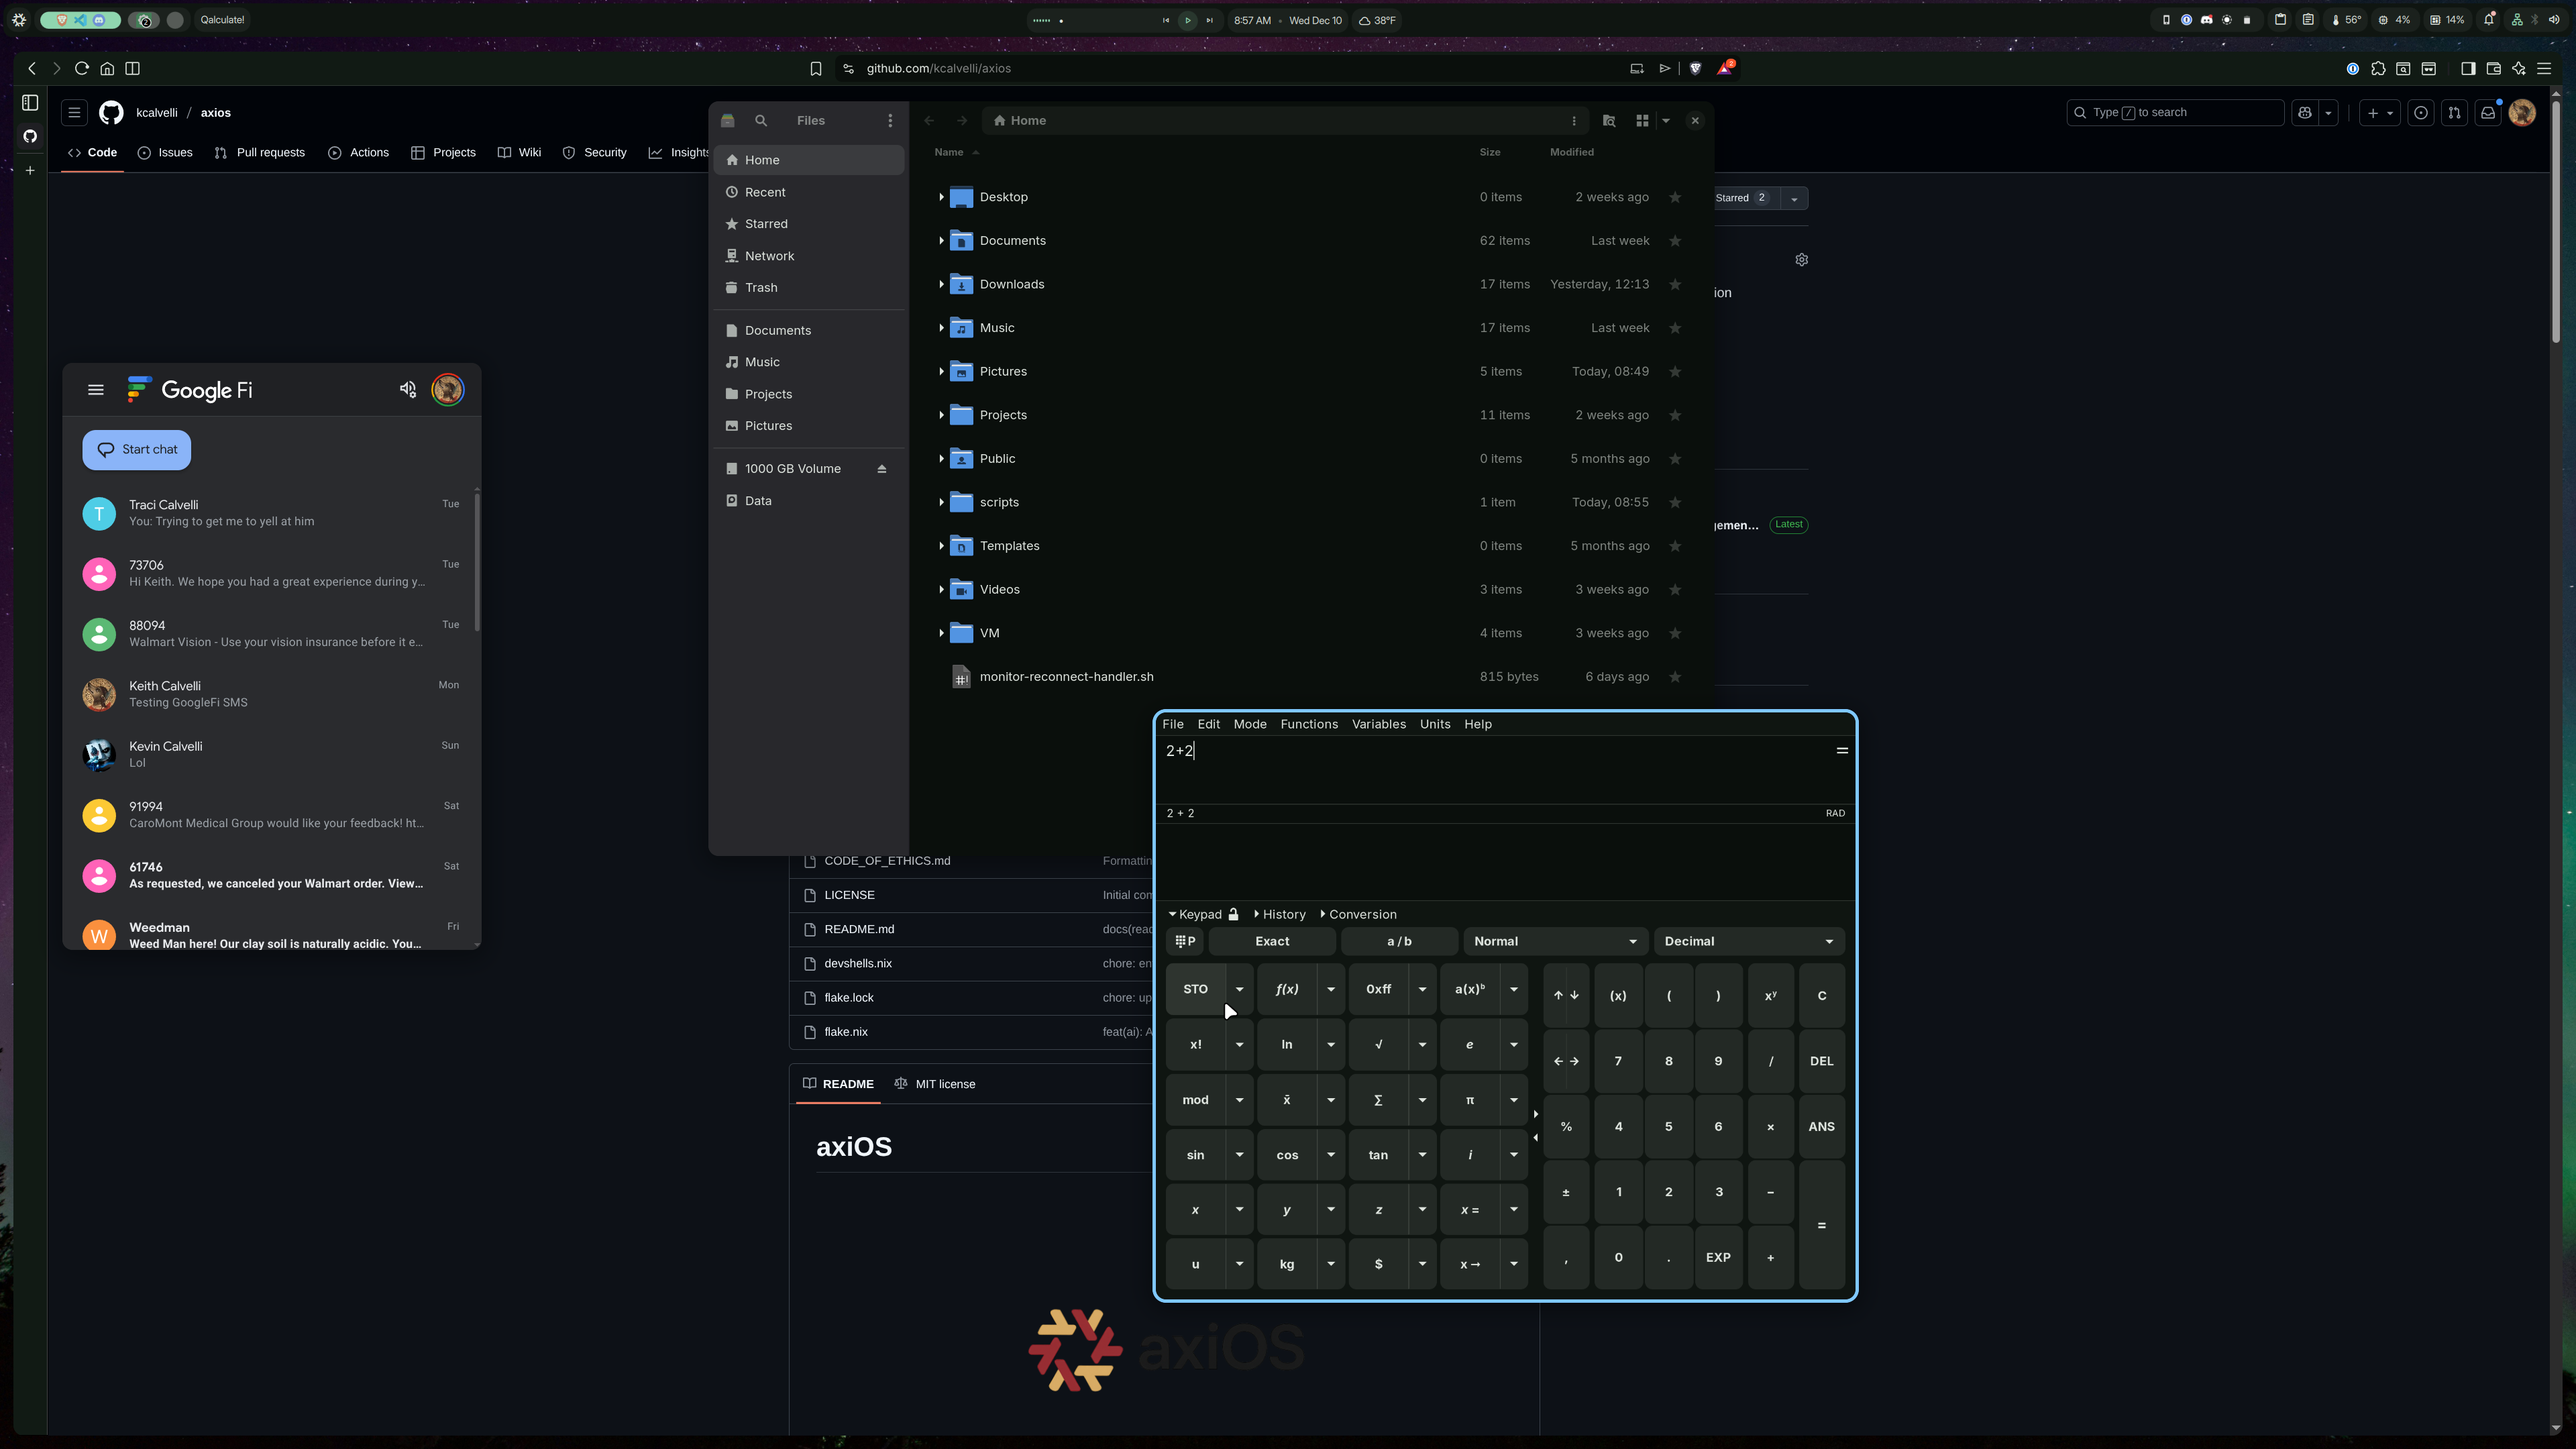
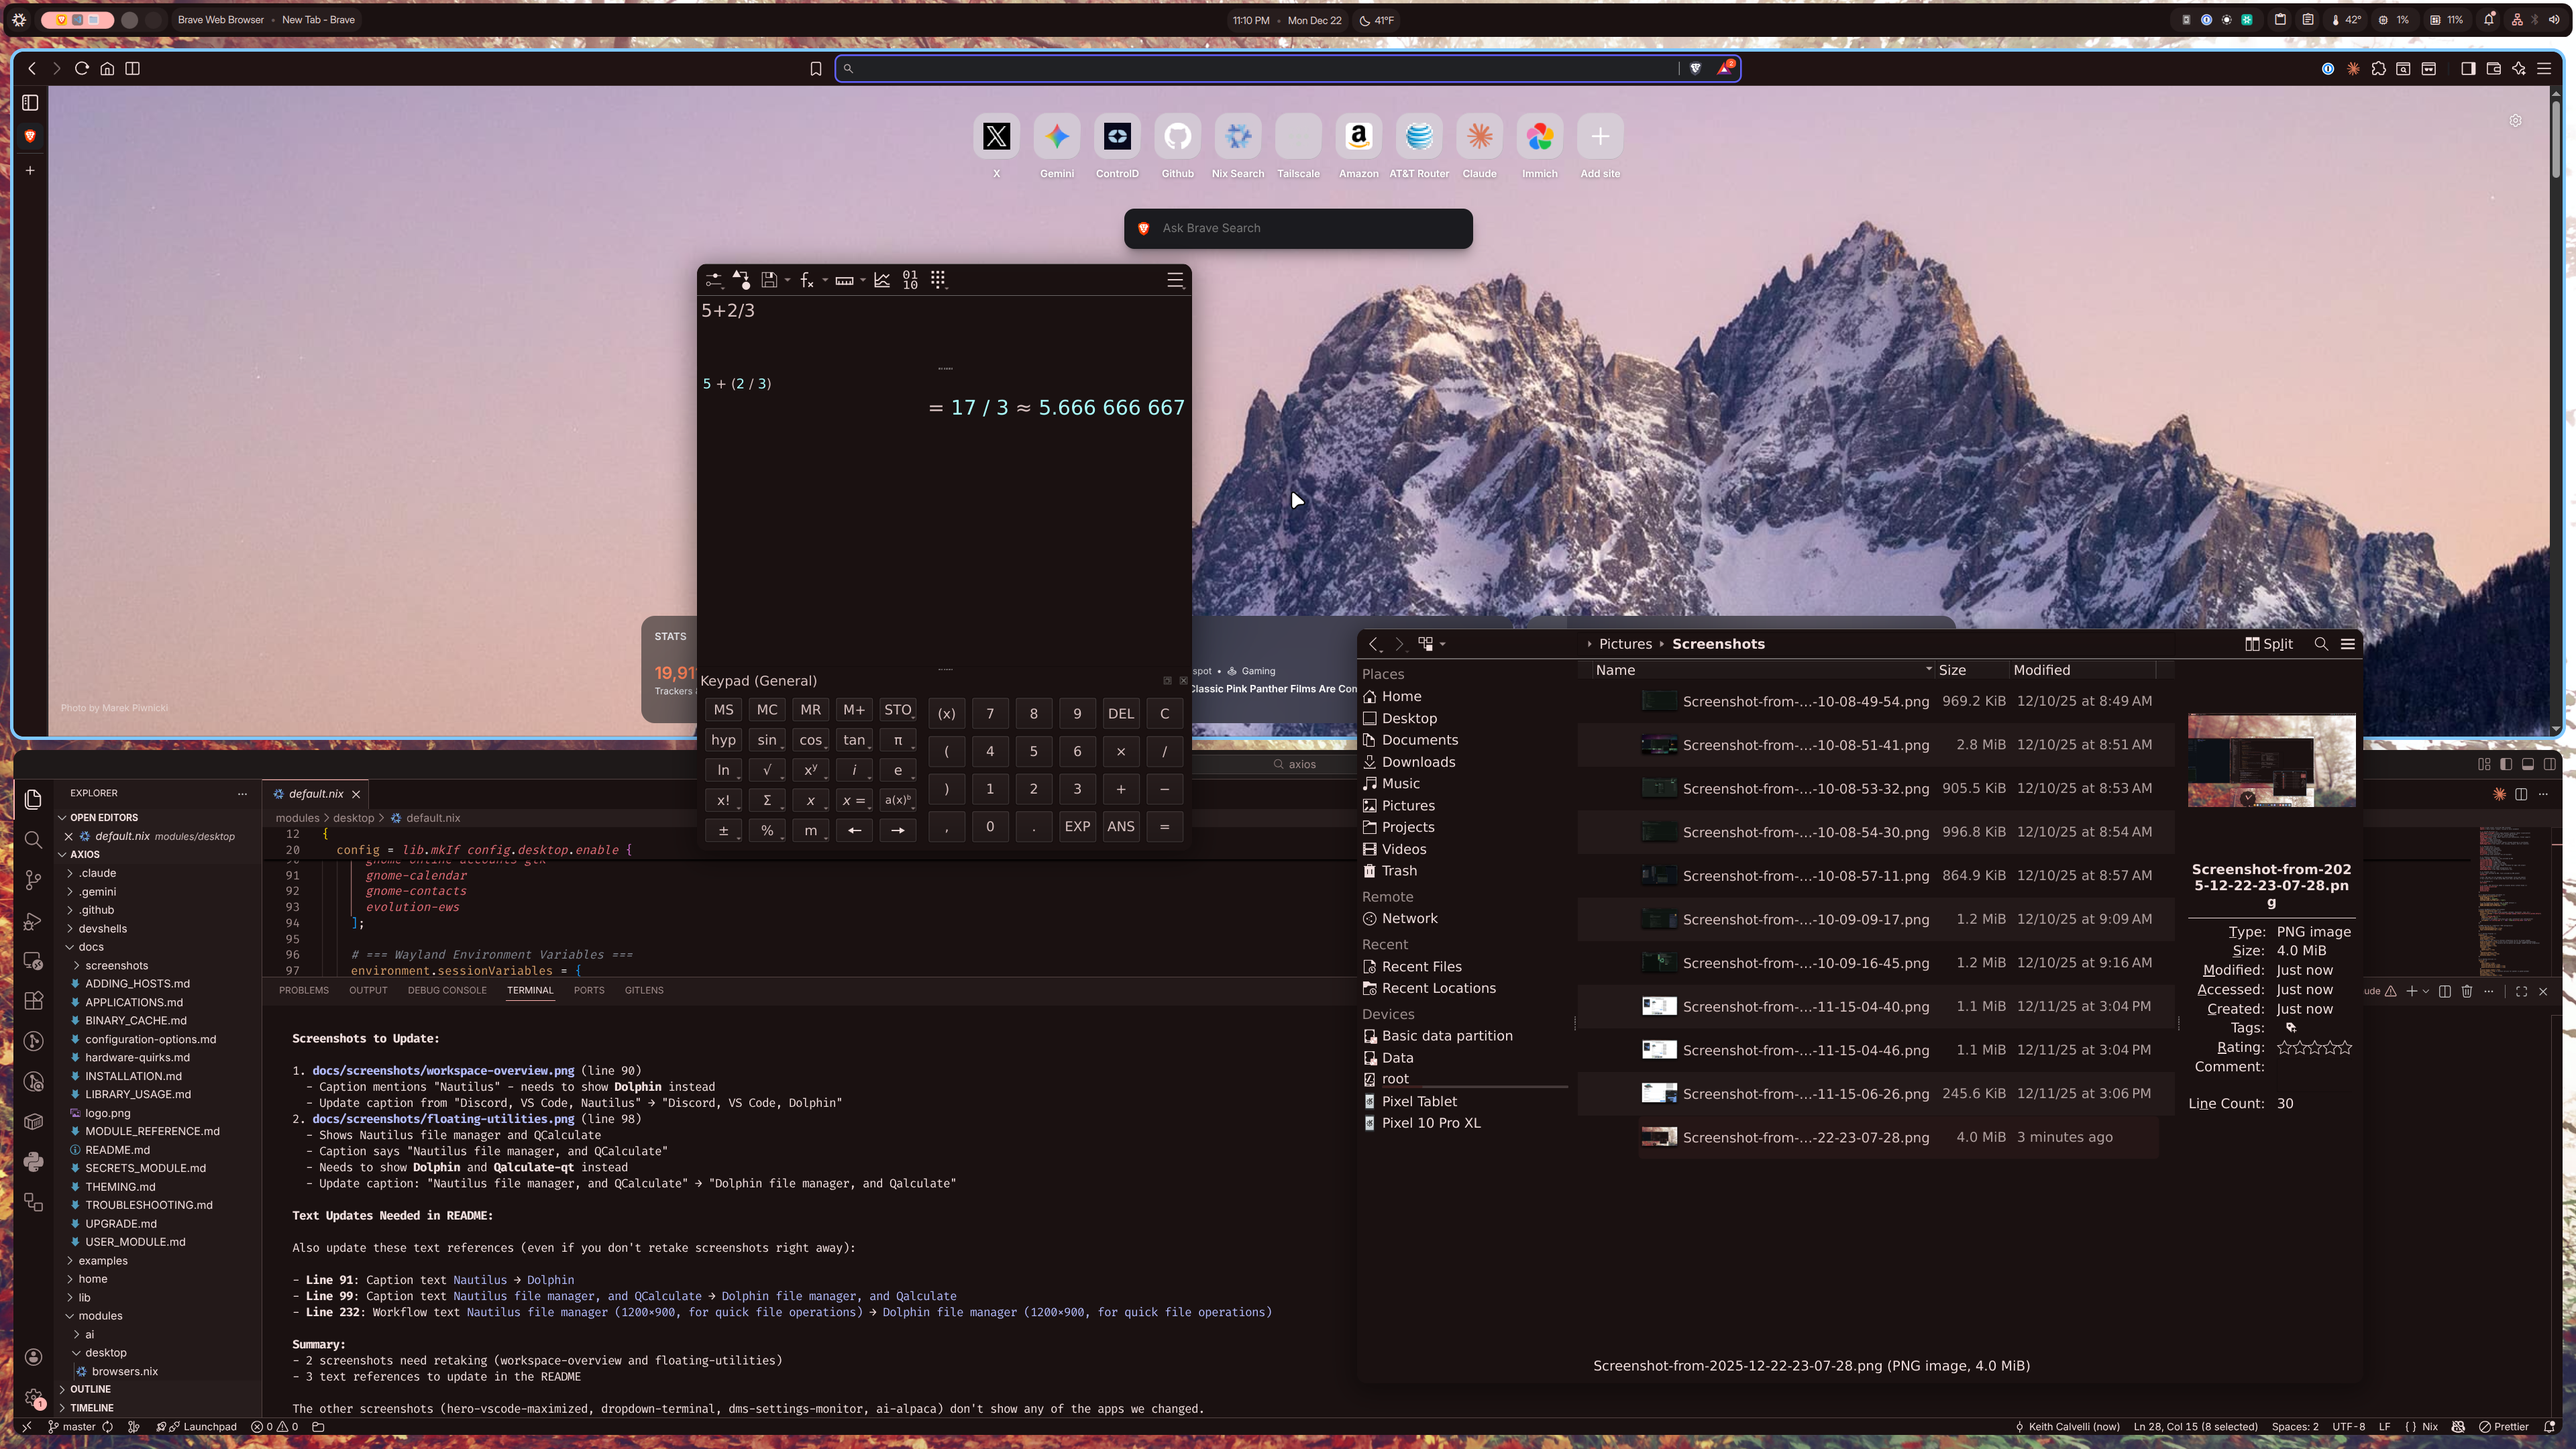
docs: Update screenshots and text for app migration
Updated README screenshots and all text references to reflect the
migration from Nautilus to Dolphin and QCalculate to Qalculate.

Screenshot Changes:
- workspace-overview.png: New screenshot showing Dolphin, VS Code,
  terminals, and the Niri keybinding reference overlay
- floating-utilities.png: New screenshot showing Qalculate calculator,
  Dolphin file manager, and split-screen Brave/VS Code tiling

Text Updates:
- Updated all references: Nautilus → Dolphin
- Updated all references: QCalculate → Qalculate
- Updated captions to accurately describe new screenshots
- Updated workflow section to reference updated apps

All screenshots now show the current best-in-class application suite.

🤖 Generated with [Claude Code](https://claude.com/claude-code)

diff --git a/README.md b/README.md
@@ -88,7 +88,7 @@ For manual setup, you'll create just 3 files:
 
 ### Workspace Overview with Blur Effect
 ![Workspace Overview](docs/screenshots/workspace-overview.png)
-*Niri's scrollable workspace view showing multiple contexts (Discord, VS Code, Nautilus) with automatic wallpaper blur*
+*Niri's scrollable workspace view showing multiple contexts (VS Code, Dolphin, terminals) with automatic wallpaper blur and built-in keybinding reference*
 
 ### Dropdown Terminal (Super+`)
 ![Dropdown Terminal](docs/screenshots/dropdown-terminal.png)
@@ -96,7 +96,7 @@ For manual setup, you'll create just 3 files:
 
 ### Strategic Floating Windows
 ![Floating Utilities](docs/screenshots/floating-utilities.png)
-*Supporting tools that don't disrupt focus: Google Fi messaging (top-left), GitHub in Brave, Nautilus file manager, and QCalculate*
+*Supporting tools that don't disrupt focus: Qalculate calculator (floating), Dolphin file manager, and split-screen tiling with Brave browser and VS Code*
 
 ### DMS Material Design Shell
 ![DMS Settings and Monitor](docs/screenshots/dms-settings-monitor.png)
@@ -228,8 +228,8 @@ axiOS is built around a **focused, distraction-free workflow** optimized for sin
 
 **Strategic Floating Windows**
 - **Utility apps** that support your work open floating:
-  - QCalculate (quick calculations during work)
-  - Nautilus file manager (1200×900, for quick file operations)
+  - Qalculate (quick calculations during work)
+  - Dolphin file manager (1200×900, for quick file operations)
   - Google Messages PWA (500×700, pinned top-left for quick replies)
   - DankMaterialShell settings (configuration without disruption)
   - Brave Picture-in-Picture (for background media)
